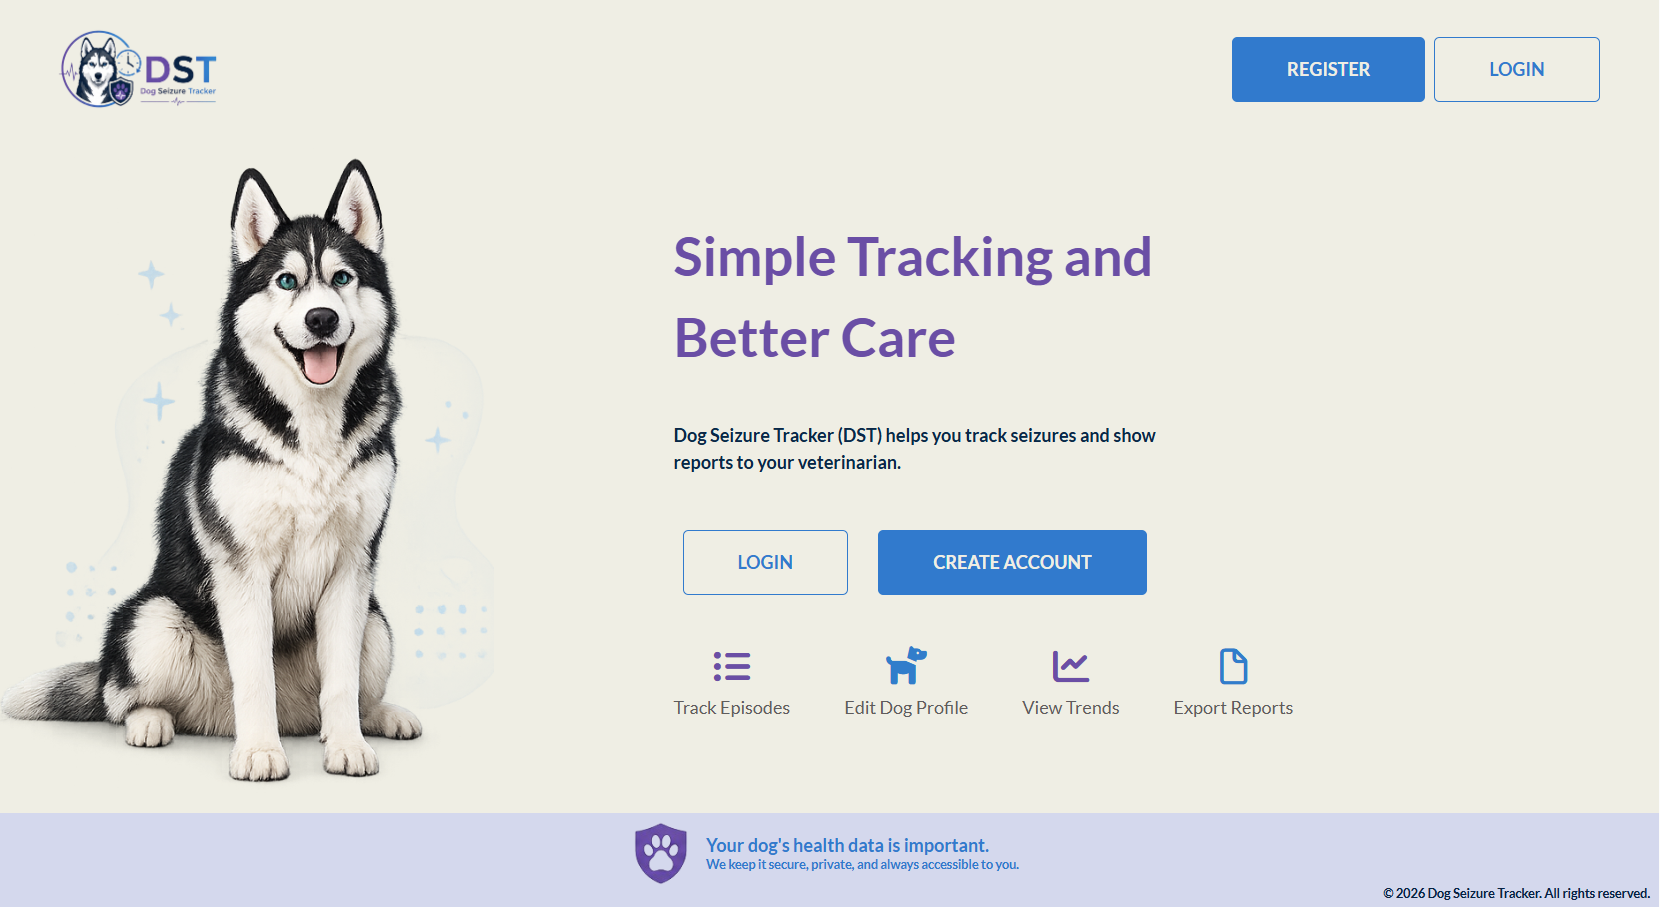
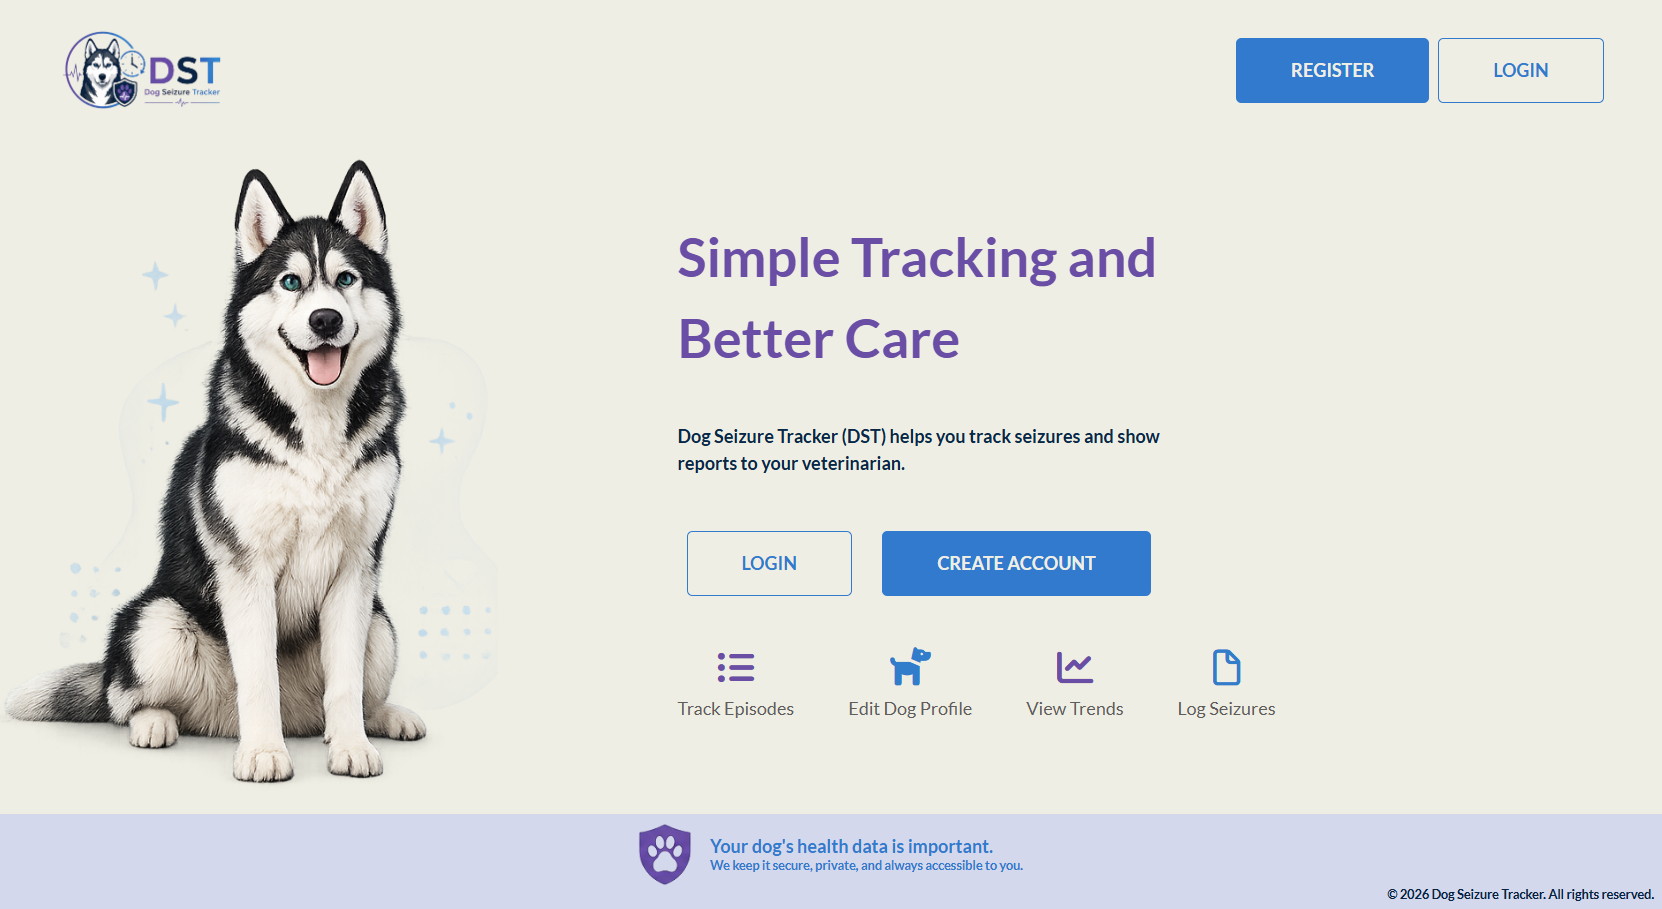
docs: layout changes

diff --git a/src/main/resources/templates/index.html b/src/main/resources/templates/index.html
@@ -29,7 +29,7 @@
                     <li><i class="fa-solid fa-list-ul"></i>Track Episodes</li>
                     <li><i class="fa-solid fa-dog"></i>Edit Dog Profile</li>
                     <li><i class="fa-solid fa-chart-line"></i>View Trends</li>
-                    <li><i class="fa-regular fa-file"></i>Export Reports</li>
+                    <li><i class="fa-regular fa-file"></i>Log Seizures</li>
                 </ul>
             </div>
         </section>

diff --git a/README.md b/README.md
@@ -1,8 +1,8 @@
-# Project Title: Seizure Tracker Application
+# Project Title: Dog Seizure Tracker Application
 
 Summary: Dog Seizure Tracker is a Java-based application designed to help dog owners monitor and manage their pets' seizure activity. The application provides a centralized platform for recording dog information, and logging seizure events to help owners and veterinarians better understand and manage canine epilepsy and other seizure-related conditions.
 
-![img_1.png](DST.png)
+![img.png](DST.png)
 
 ### **Key Features**
 * User Profile, secure user authentication and login